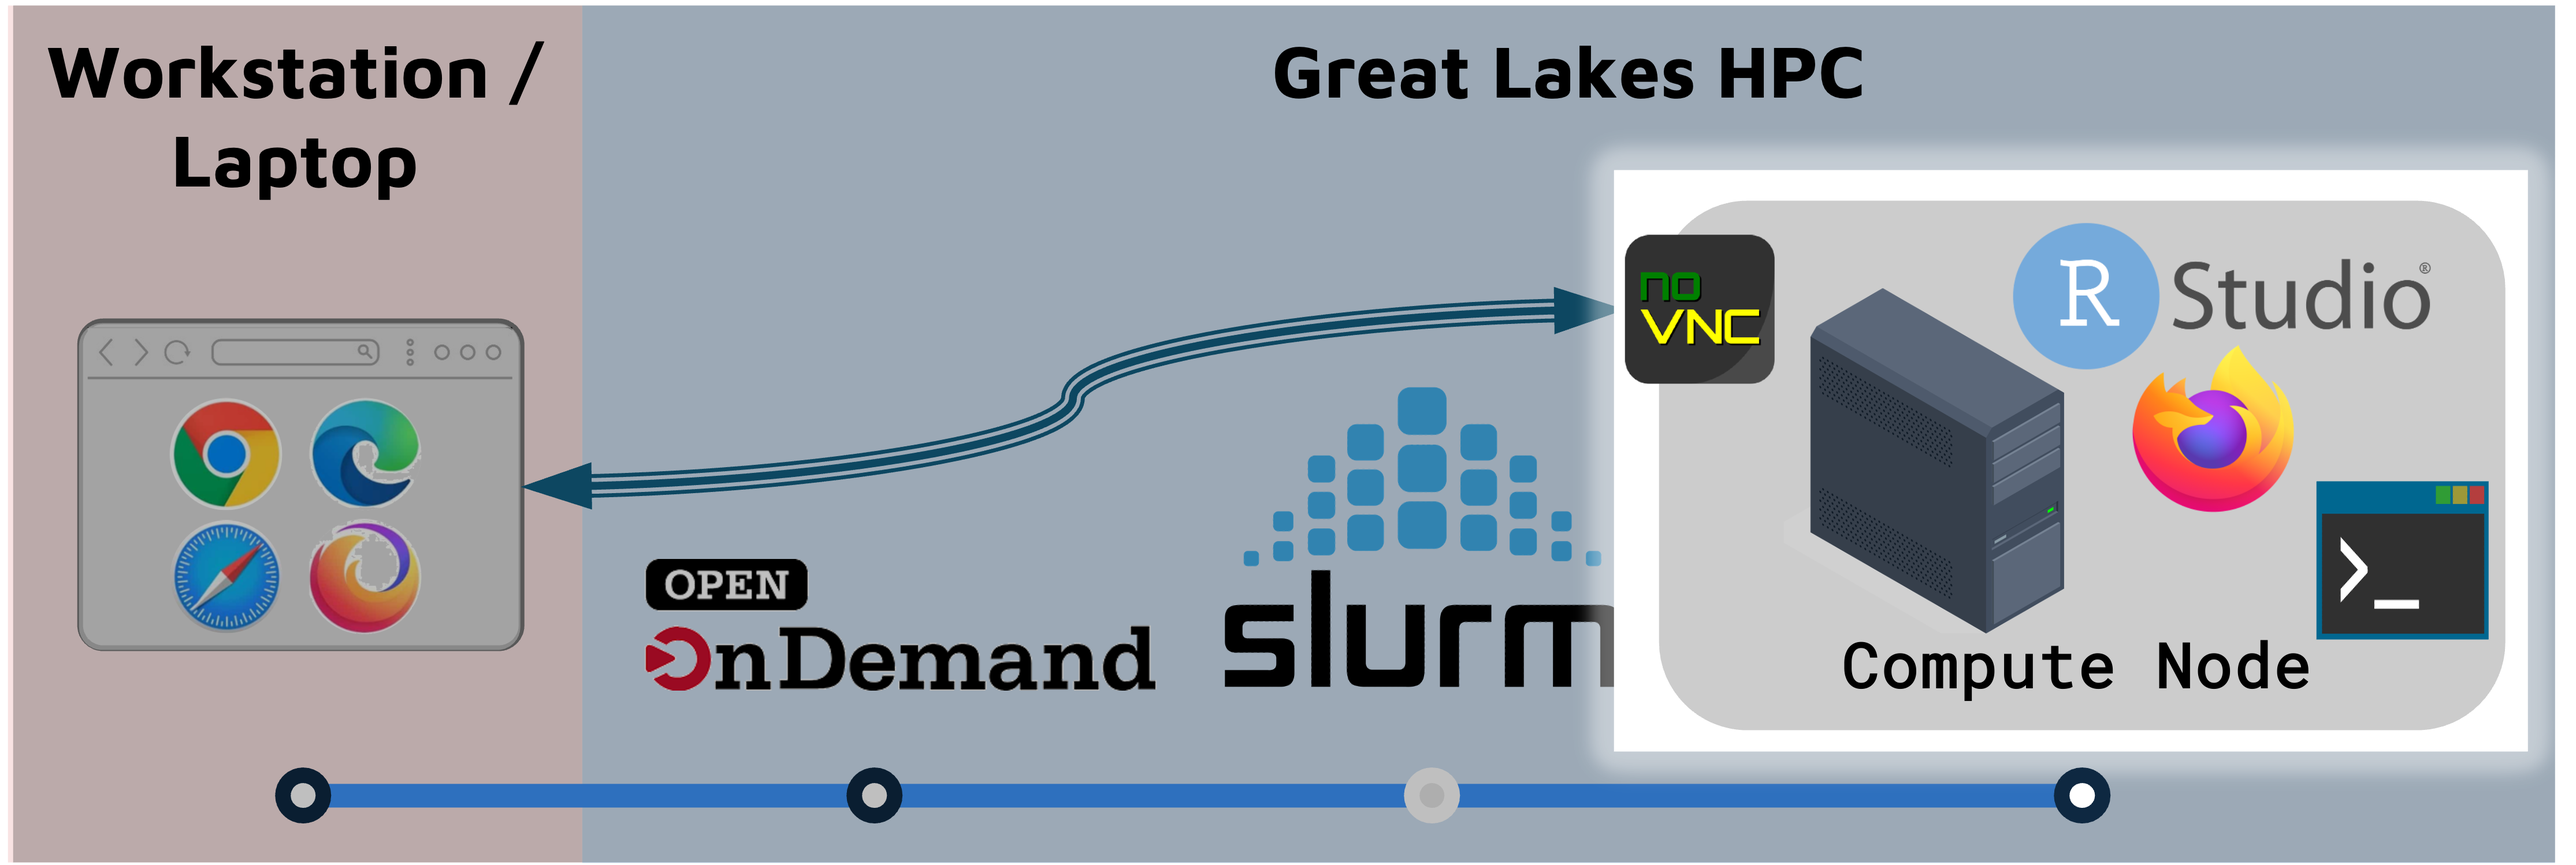
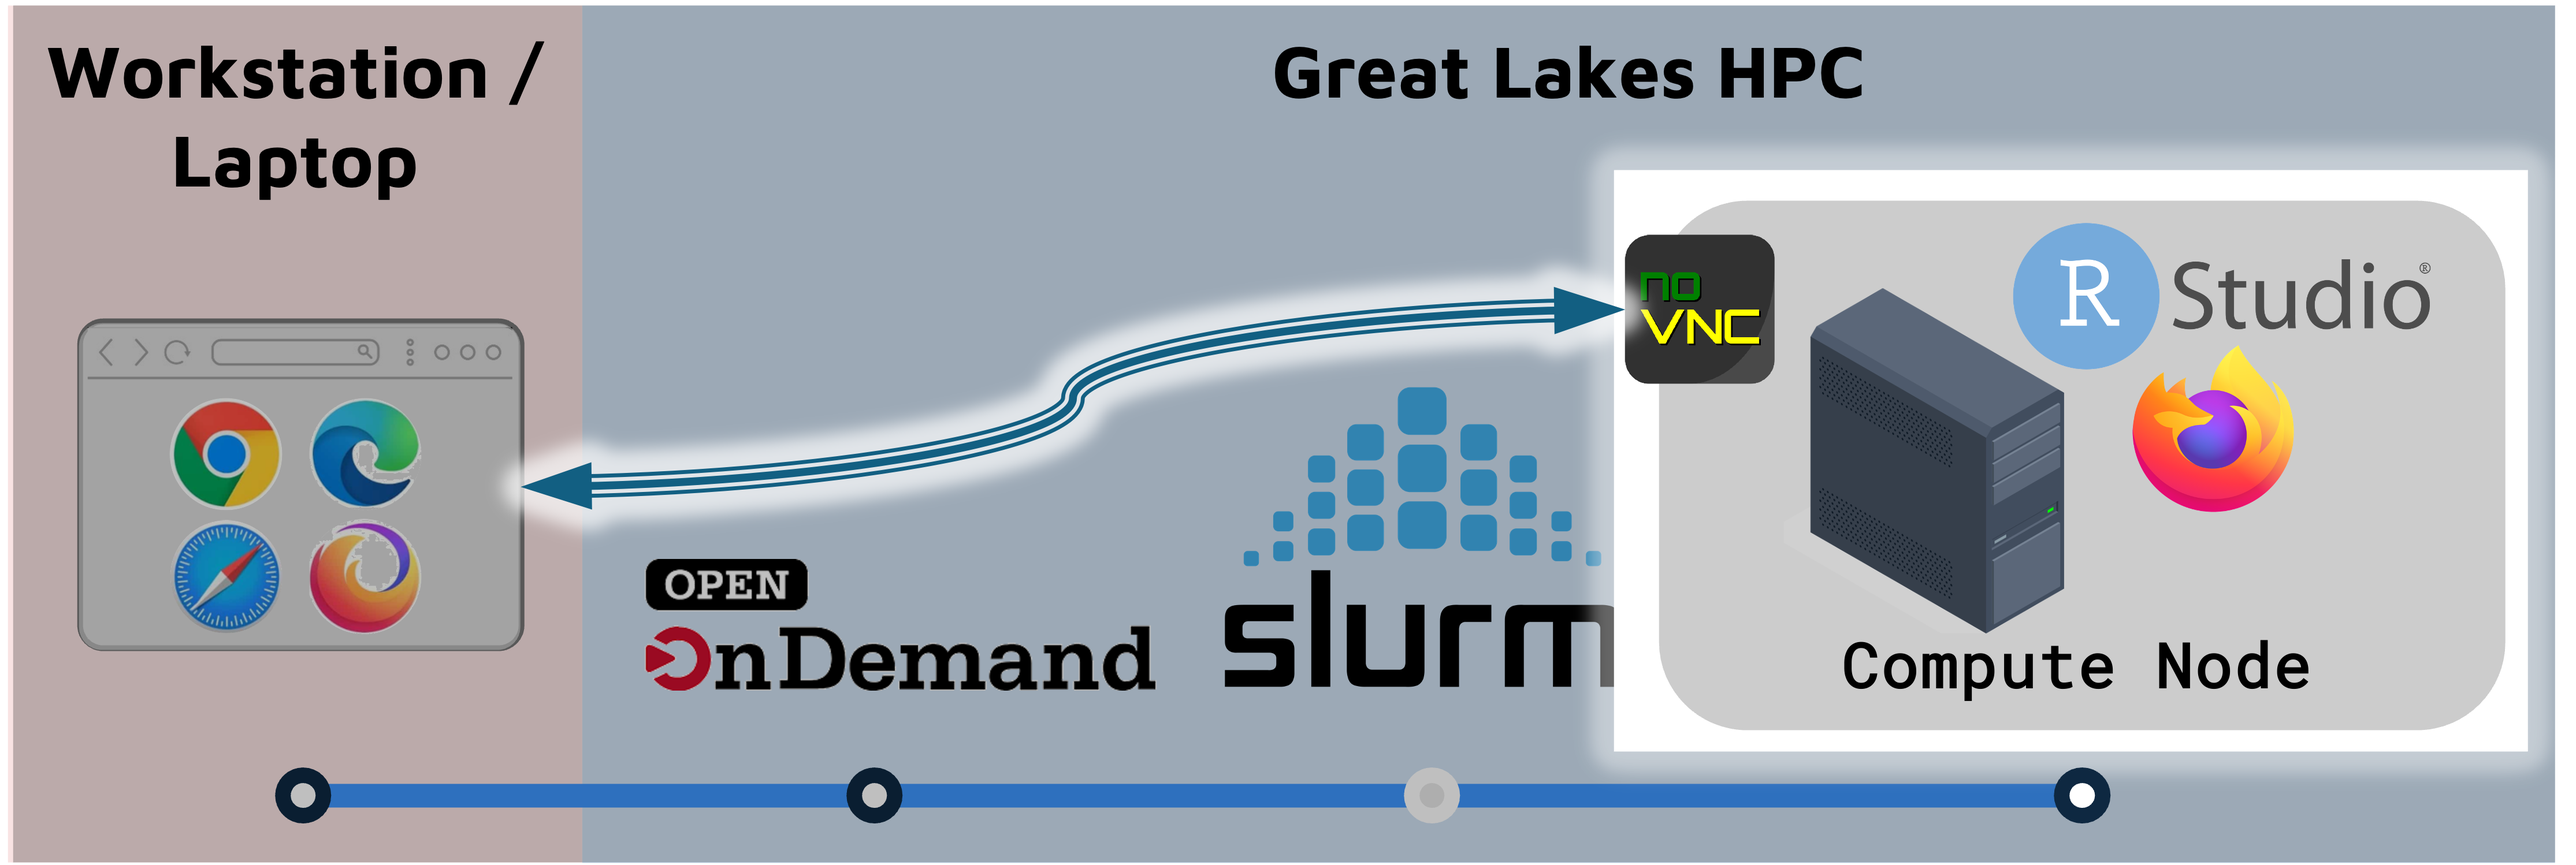
Revise seurat-on-great-lakes

Changed region(s): [[0.187, 0.3071, 0.6546, 0.6142], [0.8728, 0.5527, 0.9664, 0.737]]

diff --git a/html/seurat-on-great-lakes.html b/html/seurat-on-great-lakes.html
@@ -11,7 +11,7 @@
 
 <meta name="author" content="UM Bioinformatics Core Workshop Team" />
 
-<meta name="date" content="2025-07-28" />
+<meta name="date" content="2025-07-29" />
 
 <title>Running Seurat on UMich Great Lakes HPC</title>
 
@@ -424,7 +424,7 @@ div.tocify {
 <h1 class="title toc-ignore">Running Seurat on UMich Great Lakes
 HPC</h1>
 <h4 class="author">UM Bioinformatics Core Workshop Team</h4>
-<h4 class="date">2025-07-28</h4>
+<h4 class="date">2025-07-29</h4>
 
 </div>
 
@@ -560,7 +560,7 @@ inputs as a guide:</p>
 analyses, 10Gb is a good working number. Each user is allocated 80Gb of
 storage in their home dir. As a new user, you can execute this tutorial
 from your home dir. As your experiments and analyses grow, you can check
-your available space from the command line (<code>homw-quota</code>) and
+your available space from the command line (<code>home-quota</code>) and
 request more storage from ARC as necessary.</p></li>
 <li><p>You will need data. Below, we’ll show you how to download the
 input data used in the workshop, but you can adapt that to use your own
@@ -573,9 +573,15 @@ data.</p></li>
 <h2>Using Open OnDemand</h2>
 <p><img
 src="images/seurat-on-great-lakes/great-lakes-wayfinder-ood.png" /></p>
-<p>Open OnDemand (OOD) connects you to the Great Lakes cluster through
-your web browser. Once you’ve got everything you need from above, you’re
-going to use OOD to launch a RStudio session.</p>
+<p>Once you’ve got everything you need from above, you’re going to use
+<strong>Open OnDemand</strong> (OOD) to launch a RStudio session.</p>
+<ul>
+<li>OOD connects you to the Great Lakes cluster through your web
+browser.</li>
+<li>OOD works with the <strong>SLURM workload manager</strong> to
+reserve and configure a <strong>compute node</strong> that will run
+RStudio.</li>
+</ul>
 <ol style="list-style-type: decimal">
 <li><p>If off-campus, connect to the VPN using Cisco Secure
 Client.</p></li>
@@ -691,13 +697,17 @@ src="images/seurat-on-great-lakes/browser-chrome-clipboard-setting.png" /></td>
 <h2>Using RStudio</h2>
 <p><img
 src="images/seurat-on-great-lakes/great-lakes-wayfinder-worker-node.png" /></p>
-<p>On Great Lakes, you launch a RStudio session on a Slurm
-<strong>worker node</strong>. The worker node can run RStudio, a
-browser, or other programs/tools. You access the worker node through
-your browser using a tool call <strong>NoVNC</strong>. Accessing the
-worker node through the browser is a convenient way to use a GUI like
-RStudio, but it means that some functionality (e.g. copy-paste) works
-slightly differently.</p>
+<p>On Great Lakes, you launch a RStudio session on a SLURM
+<strong>compute node</strong>.</p>
+<ul>
+<li>The compute node can run RStudio, a browser, or other
+programs/tools.</li>
+<li>The browser connects to the the compute node through a utility
+called <strong>NoVNC</strong>.</li>
+<li>Accessing the compute node through the browser is a convenient way
+to use a GUI like RStudio, but it means that some functionality
+(e.g. copy-paste) works slightly differently.</li>
+</ul>
 <div id="shortcuts-copy-paste" class="section level3">
 <h3>Shortcuts / copy-paste</h3>
 <ul>
@@ -951,7 +961,7 @@ use to launch Cell Ranger.</p>
 <blockquote>
 <p><em>Note: as an alternative to Open OnDemand, you can use
 <strong>SSH</strong> and <strong>SLURM login nodes</strong> to launch
-SLURM worker nodes directly from the Mac Terminal or MS Command Prompt.
+SLURM compute nodes directly from the Mac Terminal or MS Command Prompt.
 Each alternative has advantages; this guide focuses on Open OnDemand
 because it can be used from the browser.</em></p>
 </blockquote>
@@ -1205,8 +1215,8 @@ on RStudio can require different keyboard shortcuts or different
 steps.</li>
 <li>OOD, Globus, and command line tools are several ways to transfer
 files between Great Lakes and your workstation.</li>
-<li>You can us <strong>launch templates</strong> to save common launch
-configs.</li>
+<li>OOD <strong>Launch templates</strong> can save launch configs and
+simplify how you start common jobs.</li>
 </ul>
 <hr />
 </div>
